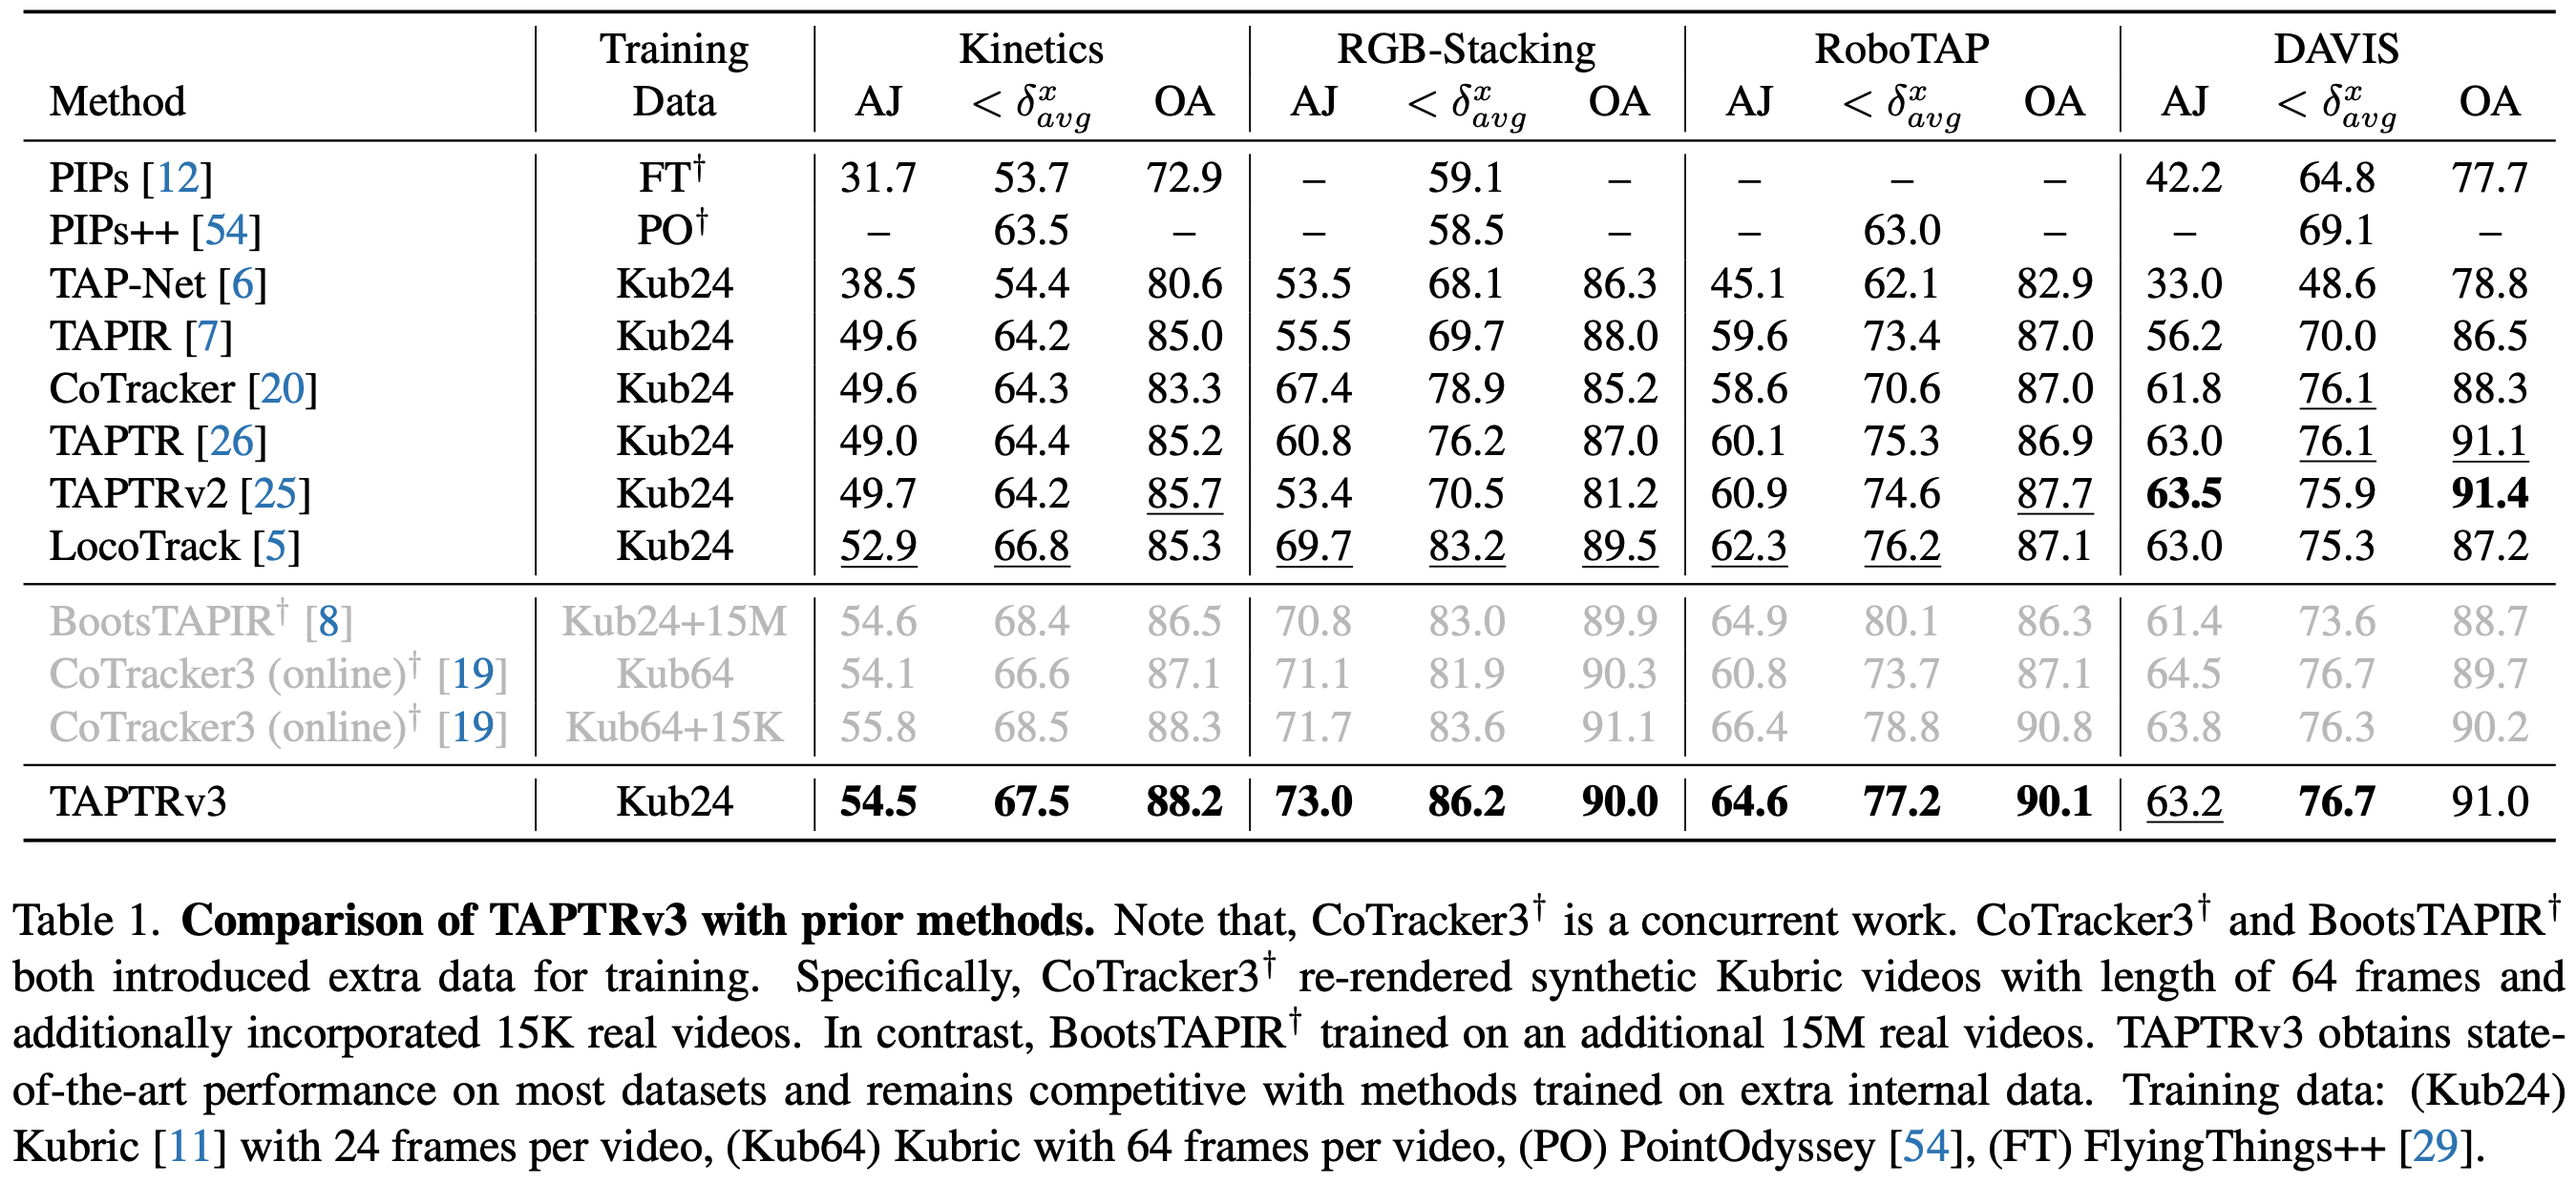
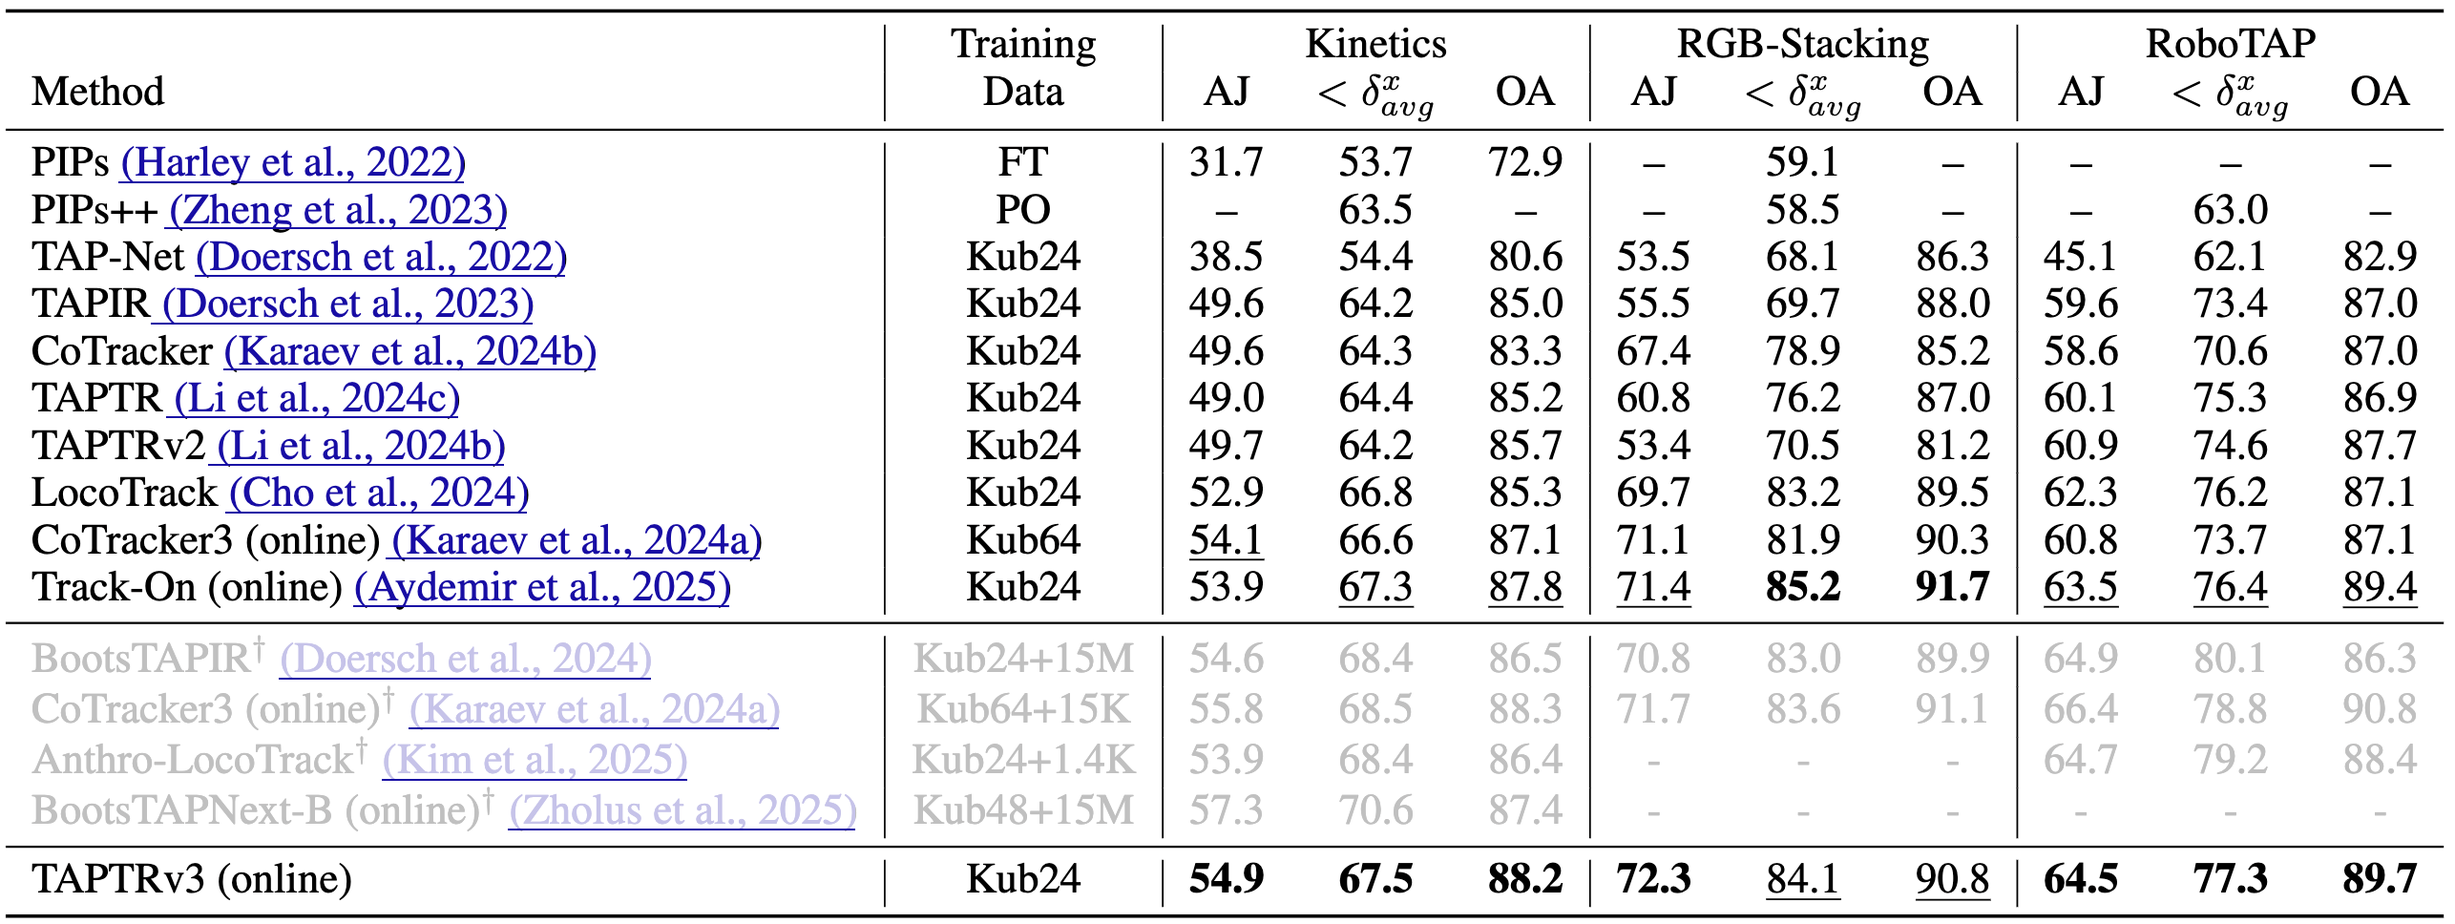
update readme

Changed region(s): [[0.0, 0.0, 0.9953, 1.0]]

diff --git a/README.md b/README.md
@@ -103,10 +103,10 @@ We would like to thank [TAP-Vid](https://github.com/google-deepmind/tapnet) and 
   journal={Advances in Neural Information Processing Systems},
   year={2024}
 }
-@article{Qu2024taptrv3,
+@article{qu2024taptrv3,
   title={{TAPTRv3: Spatial and Temporal Context Foster Robust Tracking of Any Point in Long Video}},
-  author={Qu, Jinyuan and Li, Hongyang and Liu, Shilong and Zeng, Zhaoyang and Ren, Tianhe and Zhang, Lei},
-  journal={arXiv preprint},
+  author={Qu, Jinyuan and Li, Hongyang and Liu, Shilong and Ren, Tianhe and Zeng, Zhaoyang and Zhang, Lei},
+  journal={arXiv preprint arXiv:2411.18671},
   year={2024}
 }
 ```
